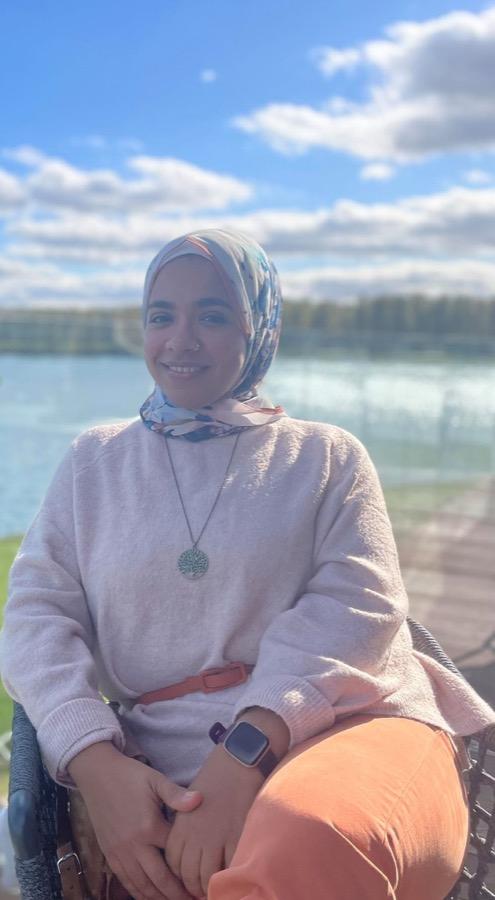
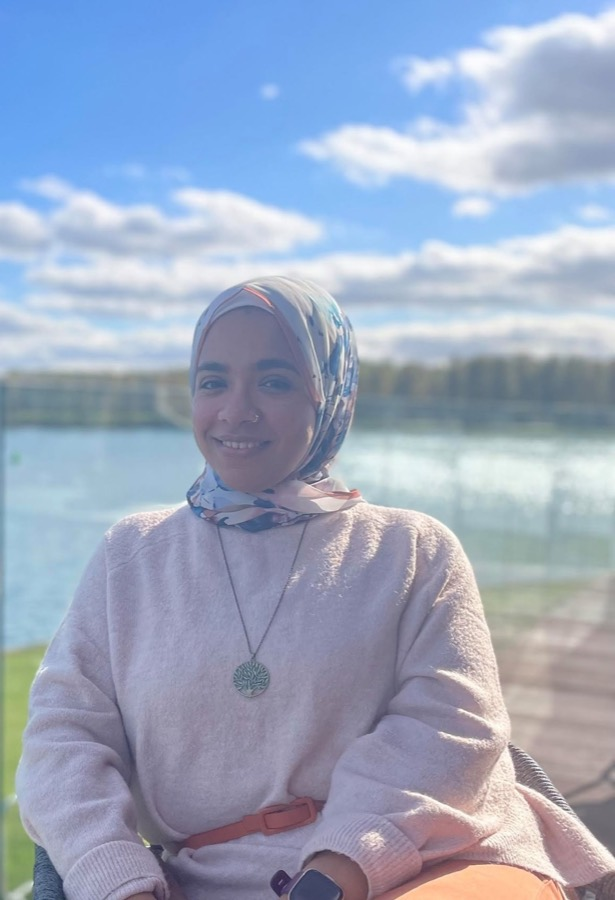
Minor tweaks
- Position the photo a little to the right on mobile
- Change the colours of the favicon
- Better fonts
- center the copyrights footer notes

diff --git a/style.css b/style.css
@@ -3,21 +3,21 @@
  */
 :root {
   --night: #17131c;
-  --glass: rgba(20, 16, 26, 0.4);
+  --glass: rgba(20, 16, 26, 0.3);
   --glass-edge: rgba(255, 255, 255, 0.12);
   --on-glass: #ffffff;
   --on-glass-soft: rgba(255, 255, 255, 0.82);
-  --linkedin: #0a66c2;
-  --linkedin-dark: #004182;
+  --linkedin: #378fe9;
+  --linkedin-dark: #0a66c2;
 
-  --serif: "Cormorant Garamond", Georgia, "Times New Roman", serif;
-  --sans: "Inter", system-ui, -apple-system, "Segoe UI", Roboto, sans-serif;
+  --display: "Space Grotesk", "Helvetica", sans-serif;
+  --sans: "Montserrat", system-ui, -apple-system, "Segoe UI", Roboto, sans-serif;
   --gutter: clamp(1.5rem, 4vw, 4rem);
 }
 
 /* Arabic content swaps to Arabic typefaces */
 [lang="ar"] {
-  --serif: "Amiri", "Noto Naskh Arabic", serif;
+  --display: "Kufam", "IBM Plex Sans Arabic", sans-serif;
   --sans: "IBM Plex Sans Arabic", "Segoe UI", Tahoma, sans-serif;
   font-family: var(--sans);
 }
@@ -104,16 +104,16 @@ body {
 
 h1 {
   margin: 0 0 1.25rem;
-  font-family: var(--serif);
-  font-size: clamp(2rem, 3.2vw, 3.25rem);
-  font-weight: 600;
-  line-height: 1.05;
-  letter-spacing: -0.01em;
+  font-family: var(--display);
+  font-size: clamp(1.75rem, 2.6vw, 2.6rem);
+  font-weight: 700;
+  white-space: nowrap;
+  line-height: 1.1;
+  letter-spacing: -0.02em;
 }
 
 [lang="ar"] h1 {
-  font-weight: 700;
-  line-height: 1.35;
+  line-height: 1.25;
   letter-spacing: 0;
 }
 
@@ -138,7 +138,7 @@ h1 {
   border-radius: 50%;
   background: var(--linkedin);
   color: #fff;
-  box-shadow: 0 0 0 4px rgba(255, 255, 255, 0.85), 0 10px 30px rgba(0, 0, 0, 0.3);
+  box-shadow: 0 0 0 5px var(--glass), 0 10px 30px rgba(0, 0, 0, 0.25);
   transition: transform 0.15s ease, background-color 0.15s ease;
 }
 
@@ -157,8 +157,9 @@ h1 {
   z-index: 2;
   grid-column: 1 / -1;
   display: flex;
-  justify-content: space-between;
-  gap: 1rem;
+  justify-content: center;
+  align-items: center;
+  gap: 0.75rem;
   padding: 0.9rem var(--gutter);
   border-top: 1px solid var(--glass-edge);
   color: var(--on-glass-soft);
@@ -169,13 +170,23 @@ h1 {
   margin: 0;
 }
 
+.footer .separator {
+  opacity: 0.6;
+}
+
 @media (max-width: 760px) {
   .page {
     grid-template-columns: minmax(0, 1fr);
   }
 
+  /*
+   * Anchor the photo's left edge so her face sits just right of centre,
+   * and lift it so her face stays above the cards.
+   */
   .backdrop img {
-    object-position: 50% 0;
+    top: -12%;
+    height: 112%;
+    object-position: 0 0;
   }
 
   .stack {
@@ -192,7 +203,7 @@ h1 {
 
   h1 {
     margin-bottom: 0.85rem;
-    font-size: 2rem;
+    font-size: 1.75rem;
   }
 
   .lede {
@@ -223,7 +234,7 @@ h1 {
 
   h1 {
     margin-bottom: 0.7rem;
-    font-size: 1.75rem;
+    font-size: 1.6rem;
   }
 
   .lede {
@@ -246,8 +257,8 @@ h1 {
   }
 
   .backdrop img {
-    top: -14%;
-    height: 114%;
+    top: -20%;
+    height: 120%;
   }
 }
 

diff --git a/index.html b/index.html
@@ -25,7 +25,7 @@
   <link rel="preconnect" href="https://fonts.googleapis.com" />
   <link rel="preconnect" href="https://fonts.gstatic.com" crossorigin />
   <link rel="stylesheet"
-    href="https://fonts.googleapis.com/css2?family=Cormorant+Garamond:wght@500;600&family=Inter:wght@400;500&family=Amiri:wght@700&family=IBM+Plex+Sans+Arabic:wght@400;500&display=swap" />
+    href="https://fonts.googleapis.com/css2?family=Space+Grotesk:wght@700&family=Montserrat:wght@400;500&family=Kufam:wght@700&family=IBM+Plex+Sans+Arabic:wght@400;500&display=swap" />
   <link rel="stylesheet" href="style.css" />
 
   <script type="application/ld+json">
@@ -44,7 +44,7 @@
 <body>
   <main class="page">
     <picture class="backdrop">
-      <source media="(max-aspect-ratio: 3/4)" srcset="assets/amira-900.jpg 495w, assets/amira.jpg 881w" sizes="100vw" />
+      <source media="(max-aspect-ratio: 3/4)" srcset="assets/amira-900.jpg 615w, assets/amira.jpg 1094w" sizes="100vw" />
       <img src="assets/amira-wide.jpg" srcset="assets/amira-wide-1200.jpg 1200w, assets/amira-wide.jpg 1800w"
         sizes="100vw" width="1800" height="1800"
         alt="Amira Qassim smiling, seated by a lake on a sunny day" />
@@ -73,6 +73,7 @@
 
     <footer class="footer">
       <p lang="ar" dir="rtl">&copy; <span class="year">2026</span> أميرة قاسم</p>
+      <span class="separator" aria-hidden="true">|</span>
       <p lang="en">&copy; <span class="year">2026</span> Amira Qassim</p>
     </footer>
   </main>

diff --git a/404.html b/404.html
@@ -8,7 +8,7 @@
   <meta name="robots" content="noindex" />
   <link rel="icon" href="/favicon.svg" type="image/svg+xml" />
   <link rel="stylesheet"
-    href="https://fonts.googleapis.com/css2?family=Cormorant+Garamond:wght@500;600&family=Inter:wght@400;500&family=Amiri:wght@700&family=IBM+Plex+Sans+Arabic:wght@400;500&display=swap" />
+    href="https://fonts.googleapis.com/css2?family=Space+Grotesk:wght@700&family=Montserrat:wght@400;500&family=Kufam:wght@700&family=IBM+Plex+Sans+Arabic:wght@400;500&display=swap" />
   <link rel="stylesheet" href="/style.css" />
 </head>
 
